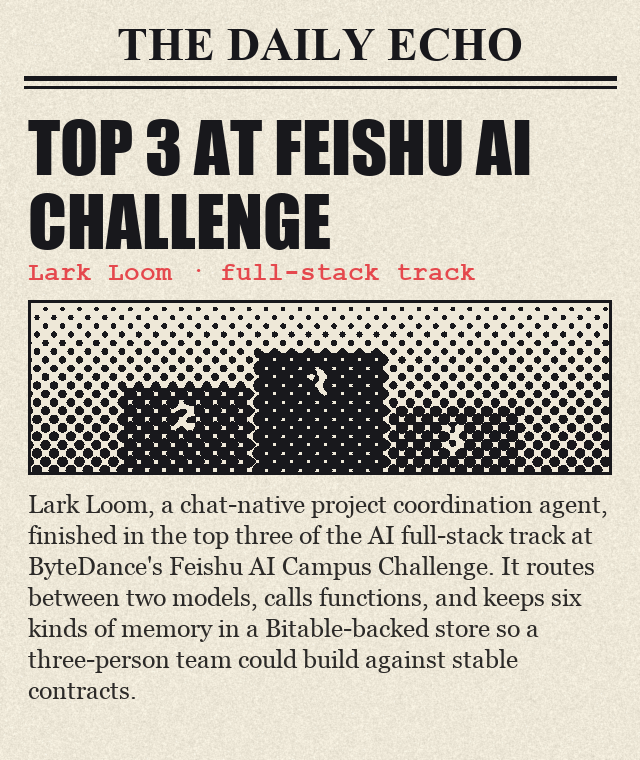
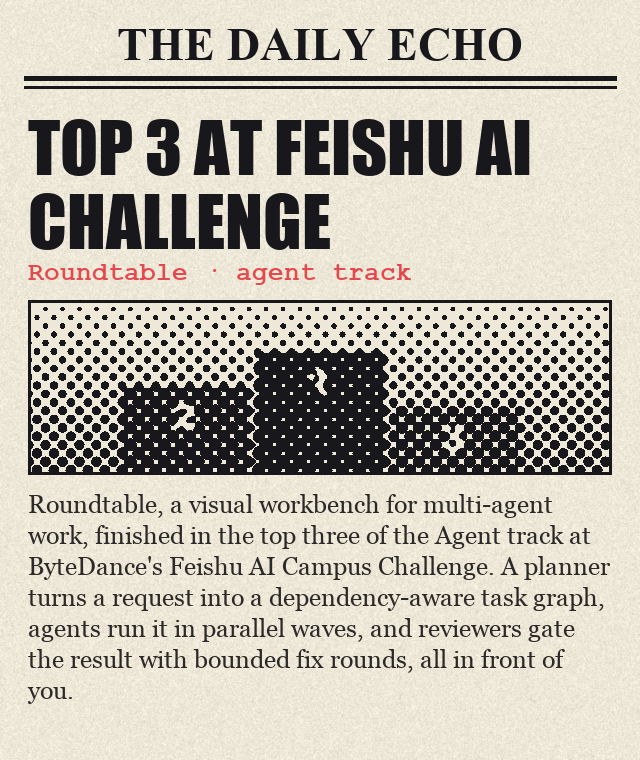
fix: credit the Feishu Top 3 to Roundtable and keep wall patterns off the prints
The Top 3 at the Feishu AI Campus Challenge was won by Roundtable in the
Agent track, not by Lark Loom. The fourth press clipping and the chat
persona now say so, and Lark Loom is no longer mentioned.

Polaroids reference photos by their stable ids (905 / 951 / 1001 / 1050).

Clippings and the poster are named wall_*, so every style painted its wall
treatment over them (yellow tint, red dots). The wall mask now lists the
wall surfaces explicitly.

Changed region(s): [[0.0312, 0.6355, 0.9688, 0.9382], [0.3438, 0.3329, 0.75, 0.3934], [0.0312, 0.3329, 0.2812, 0.3632]]

diff --git a/002/workers/api/src/index.js b/002/workers/api/src/index.js
@@ -16,7 +16,7 @@ About you:
 - AI product manager who also writes and ships the code.
 - Now: AI PM intern at MOSI (上海模思智能) on MosMos, an AI voice assistant. You owned "ask about selected text + multi-turn + tool calling" for its voice agent and shipped the code yourself; you also built the Doubao fallback for meeting transcription and contributed to the MOSS-VL / Realtime API docs.
 - Echo Agent (回声, echoagent.dev): a voice AI agent for Mac that you started and lead with a team of four. Press Fn+Space in any app, say it, and Echo answers or hands the work to Claude Code and Codex on the machine. It has a phone remote and a full backend, and was featured in the 61.7k-star Chinese indie developer list on GitHub five days after the first commit.
-- Roundtable: an open-source visual workbench for multi-agent work (MIT). Athena: a Discord agent plus live knowledge graph that won the Susquehanna Prize at the UNSW × Mistral AI × Atlassian Hackathon. Lark Loom: Top 3 at the ByteDance Feishu AI Campus Challenge. Chiron Prompt: an open-source prompt enhancer for the terminal.
+- Roundtable: an open-source visual workbench for multi-agent work (MIT); it placed Top 3 in the Agent track of the ByteDance Feishu AI Campus Challenge. Athena: a Discord agent plus live knowledge graph that won the Susquehanna Prize at the UNSW × Mistral AI × Atlassian Hackathon. Chiron Prompt: an open-source prompt enhancer for the terminal.
 - PreUni (preuni.xyz): your university course notes, shared. Hypha: you founded it at 17 and led a team of seven; its core product passed ¥100K in single-day revenue.
 - Also a photographer (street, portrait, architecture, wildlife) and you write about AI and agents on your blog. This site was modelled in Blender and rendered in ten styles.
 - Contact: jiaedwin0605@gmail.com · GitHub: github.com/EdwinjJ1 · Open to opportunities.

diff --git a/002/pipeline/textures.py b/002/pipeline/textures.py
@@ -214,7 +214,7 @@ def board(w=2400, h=1176):
 
     # 拍立得
     stick(im, polaroid("bars", "echo agent", 11), (250, 250), -7)
-    stick(im, polaroid("city", "sydney", 12, pid=4), (590, 230), 5)
+    stick(im, polaroid("city", "sydney", 12, pid=951), (590, 230), 5)
     stick(im, polaroid("cup", "athena · prize", 13, size=250), (700, 560), -4)
 
     # 便签
@@ -500,7 +500,7 @@ def small_papers(out):
     d.text((216, 282), "github.com/EdwinjJ1", font=font("mono", 28), fill=INK)
     d.text((216, 328), "echoagent.dev", font=font("mono", 28), fill=INK)
     c.save(out / "bizcard.png")
-    for name, kind, caption, seed, pid in (("a", "city", "coast", 61, 6), ("b", "person", "street", 62, 5), ("c", "city", "trees", 63, 3)):
+    for name, kind, caption, seed, pid in (("a", "city", "coast", 61, 1050), ("b", "person", "street", 62, 1001), ("c", "city", "trees", 63, 905)):
         polaroid(kind, caption, seed, pid=pid).save(out / f"polaroid_{name}.png")
 
 
@@ -594,8 +594,8 @@ def main(out):
          "SYDNEY — Athena, a Discord agent that chases project updates and writes them into a live knowledge graph, won the Susquehanna Prize at the UNSW × Mistral AI × Atlassian Hackathon. Jia led product architecture and final integration; the team built it in 24 hours. Every team's answers land in one graph, so contradictions between teams surface on their own."),
         ("TEEN CEO HITS ¥100K IN ONE DAY", "Hypha · 7-person team · age 17", "person", avatar(),
          "BEIJING — At 17, Evan Jia founded Hypha and led a team of seven across engineering, art and legal. Its core digital-collectible product passed ¥100,000 in revenue in a single day. He owned the roadmap, the architecture and most of the backend, and took community growth from zero to a paying audience."),
-        ("TOP 3 AT FEISHU AI CHALLENGE", "Lark Loom · full-stack track", "podium", None,
-         "Lark Loom, a chat-native project coordination agent, finished in the top three of the AI full-stack track at ByteDance's Feishu AI Campus Challenge. It routes between two models, calls functions, and keeps six kinds of memory in a Bitable-backed store so a three-person team could build against stable contracts."),
+        ("TOP 3 AT FEISHU AI CHALLENGE", "Roundtable · agent track", "podium", None,
+         "Roundtable, a visual workbench for multi-agent work, finished in the top three of the Agent track at ByteDance's Feishu AI Campus Challenge. A planner turns a request into a dependency-aware task graph, agents run it in parallel waves, and reviewers gate the result with bounded fix rounds, all in front of you."),
     ]
     for i, (hl, sub, kind, image, text) in enumerate(clips):
         clipping(hl, sub, kind, 20 + i, text, h=820 if i % 2 == 0 else 760, image=image).save(out / f"clip_{i}.png")

diff --git a/002/pipeline/stylize.py b/002/pipeline/stylize.py
@@ -73,7 +73,8 @@ class Ctx:
         self.rs = np.random.RandomState(5)
         yy, xx = np.mgrid[0:self.H, 0:self.W].astype(np.float32)
         self.xx, self.yy = xx, yy
-        self.wall = self.mask("wall_")
+        # 只算墙体本身；贴在墙上的剪报和海报（wall_clip_* / wall_poster）不能被当成墙去套墙面图案
+        self.wall = self.mask("wall_body", "wall_brick", "wall_right", "wall_sill")
         self.city = self.mask("tower", "ground")
         self.floor = self.mask("floor", "rug")
         self.desk = self.mask("desk")
